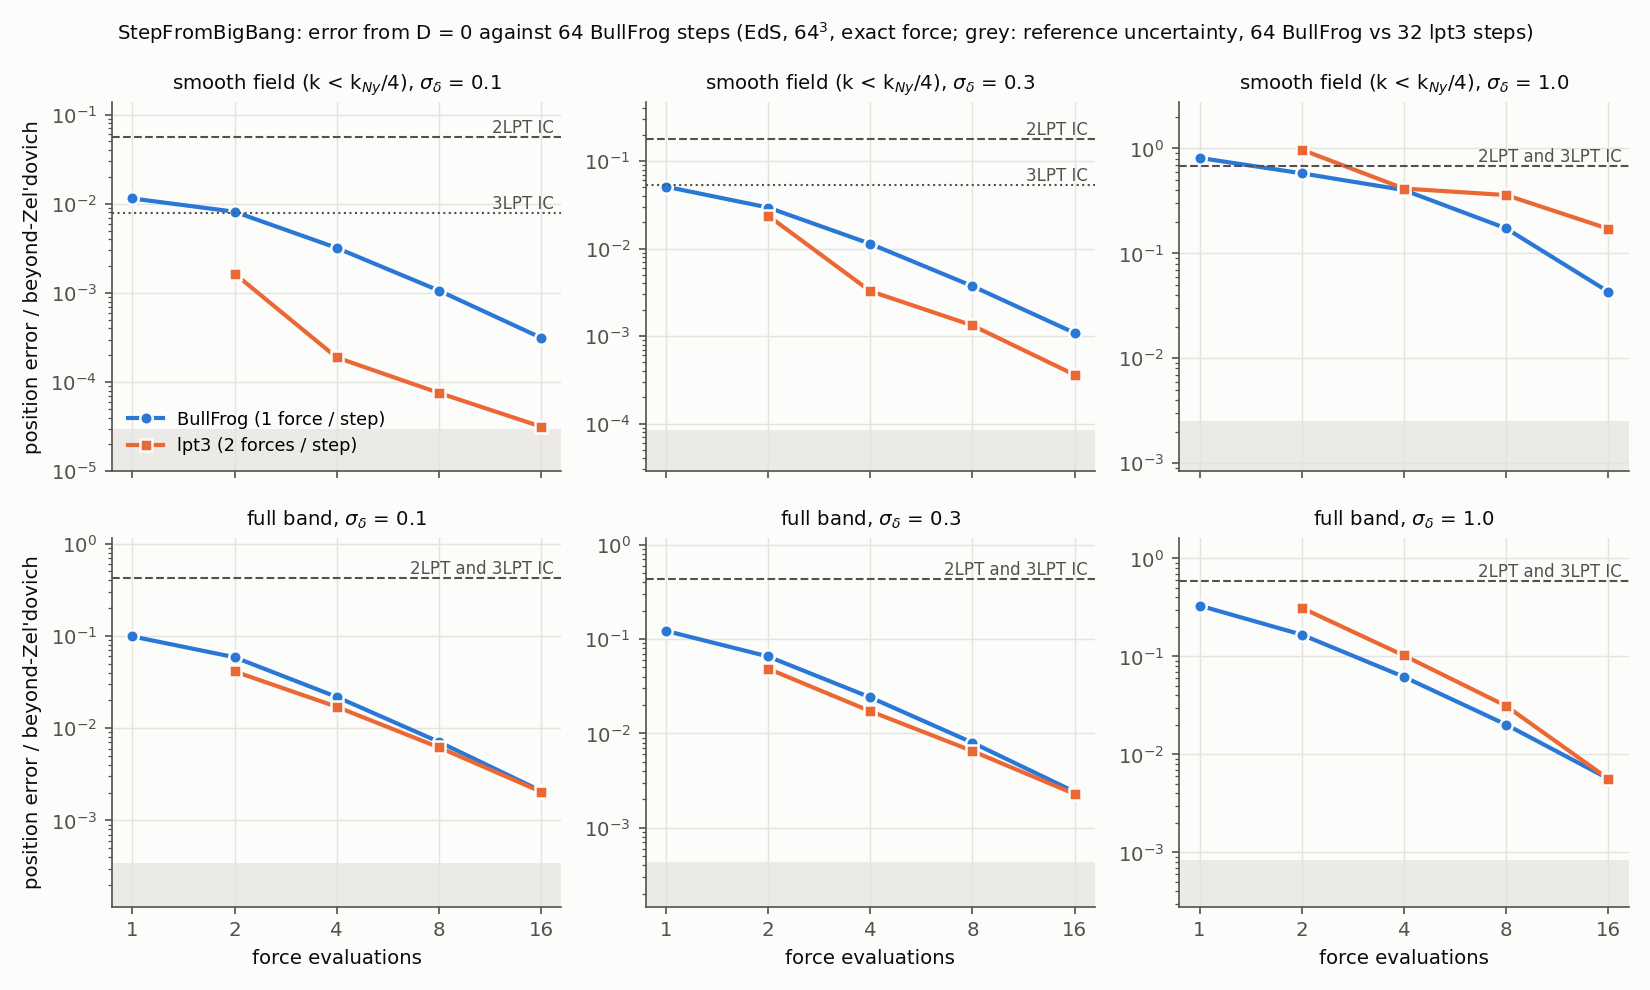
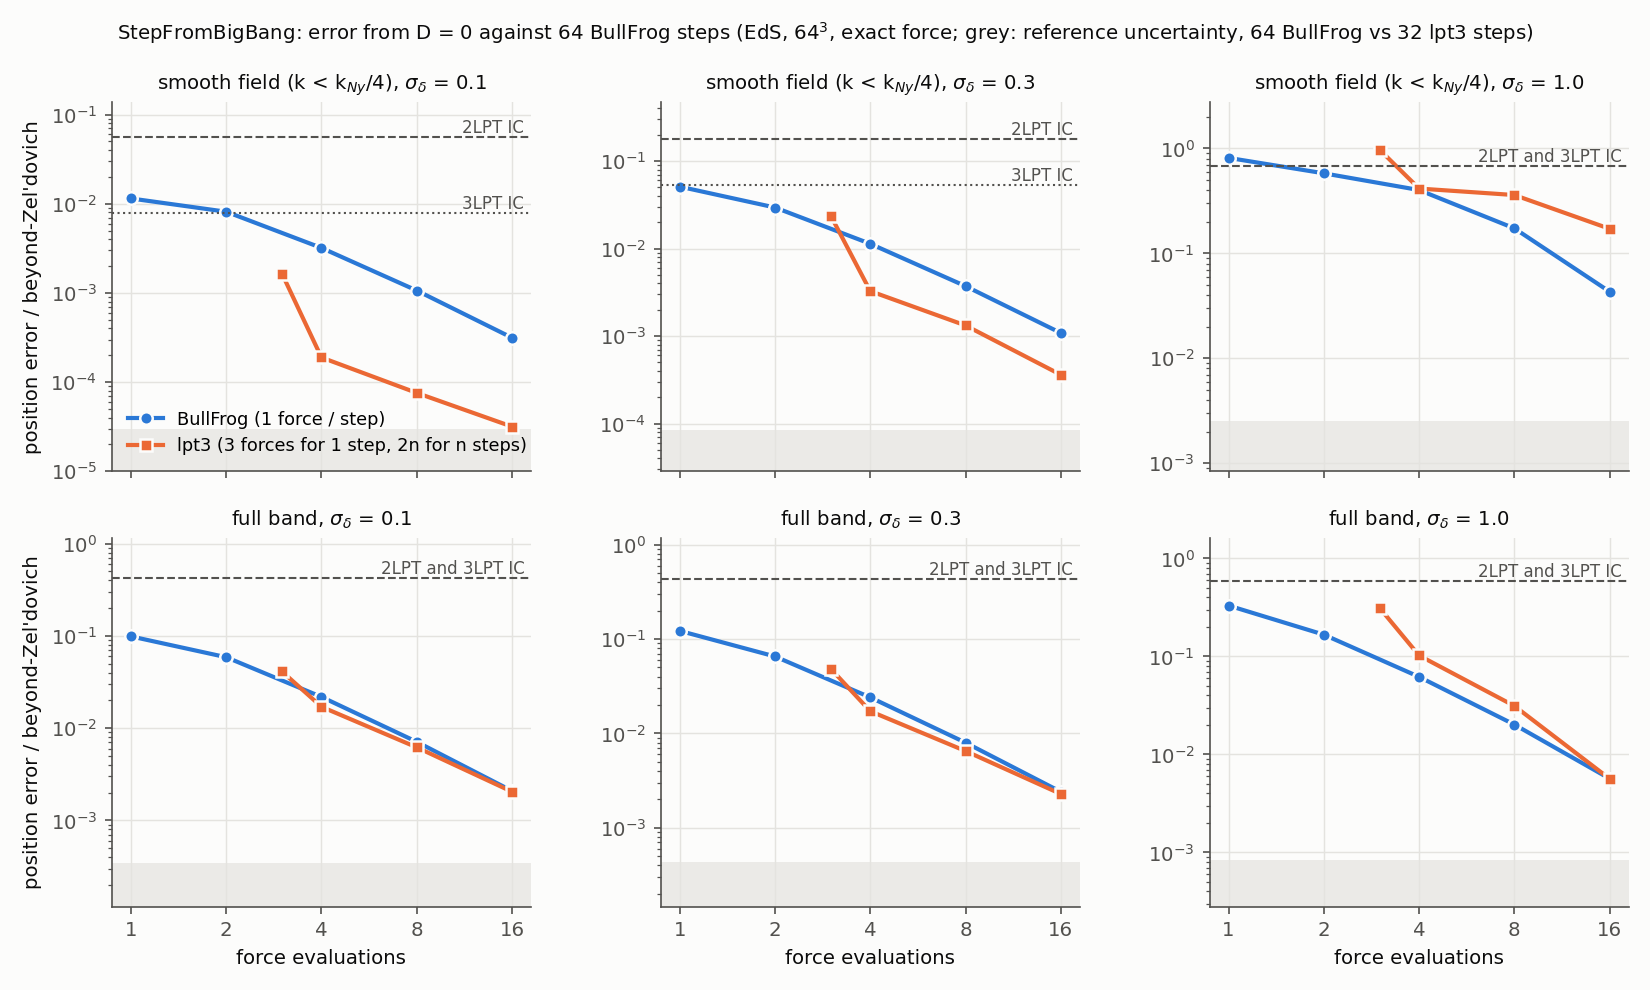
StepFromBigBang: steps from the Big Bang against nLPT ICs; cost mode; lpt3 force count
- Docs (book, website, module README, CHANGELOG): one step from a = 0 against
  2LPT/3LPT initial conditions at z = 18 (the cosmology and particle spacing of
  List, Hahn & Rampf 2023, exact force, converged N-body reference). One
  BullFrog step beats 2LPT and 3LPT over the full band (0.13 against 0.34 /
  0.32 of the beyond-Zel'dovich displacement); one lpt3 step beats 3LPT by 3x
  on large scales and 5-7x over the full band. Why, and where the residual to
  3LPT is a fair measure.
- Corrected: one lpt3 step takes 3 forces (the first step needs a force at its
  end for the velocity), n > 1 steps 2n. Fixed in the docs and the convergence
  figure (one-step lpt3 point at 3 forces).
- test_sfbb: PK_LCDM="L,z" in dump mode for an Eisenstein-Hu LCDM field; a
  cost mode timing nLPT ICs against 1-2 steps with each force; a NUFFT force
  with eps = 1e-6 among the force variants.

Claude-Session: https://claude.ai/code/session_01EWQvBFXvnZwz6cQpbACP5y

diff --git a/FML/StepFromBigBang/tests/test_sfbb.cpp b/FML/StepFromBigBang/tests/test_sfbb.cpp
@@ -14,7 +14,9 @@
 #include <FML/RandomGenerator/RandomGenerator.h>
 #include <FML/StepFromBigBang/Forces.h>
 #include <FML/StepFromBigBang/StepFromBigBang.h>
+#include <FML/Cosmology/Spectra/EisensteinHu.h>
 
+#include <chrono>
 #include <cmath>
 #include <iomanip>
 #include <iostream>
@@ -69,6 +71,51 @@ FML::GRID::FFTWGrid<NDIM> make_delta(double kcut, double sigma, int seed = 1) {
     FML::GRID::for_each_fourier_mode<NDIM>(delta, [&](size_t i, double) {
         delta.set_fourier_from_index(i, delta.get_fourier_from_index(i) * FML::GRID::FloatType(norm));
     });
+    return delta;
+}
+
+// A realistic linear delta: Eisenstein-Hu LCDM (Omega_m = 0.3, h = 0.6711, n_s = 0.9624, sigma8 = 0.8, as List, Hahn
+// & Rampf 2023) in a box of L Mpc/h at redshift z, no cutoff. Growth D(z)/D(0) of LCDM without radiation.
+FML::GRID::FFTWGrid<NDIM> make_delta_lcdm(double L, double z, int seed = 1) {
+    FML::COSMOLOGY::EisensteinHuParameters eh;
+    eh.Omega_m = 0.3;
+    eh.h = 0.6711;
+    const double ns = 0.9624, sigma8 = 0.8, Om = 0.3;
+    auto Pshape = [&](double k) { return std::pow(k, ns) * std::pow(FML::COSMOLOGY::eisenstein_hu_transfer(k, eh), 2); };
+    // sigma8 of the shape (top hat R = 8 Mpc/h), log-k trapezoid
+    double s2 = 0;
+    const int nk = 20000;
+    const double lk0 = std::log(1e-5), lk1 = std::log(1e3), dlk = (lk1 - lk0) / nk;
+    for (int i = 0; i <= nk; i++) {
+        const double k = std::exp(lk0 + i * dlk), x = 8 * k;
+        const double W = 3 * (std::sin(x) - x * std::cos(x)) / (x * x * x);
+        s2 += (i == 0 or i == nk ? 0.5 : 1.0) * Pshape(k) * W * W * k * k * k / (2 * M_PI * M_PI) * dlk;
+    }
+    // LCDM growth D(a) ~ H(a) int_0^a da' / (a' H)^3
+    auto Dgrowth = [&](double a) {
+        auto H = [&](double x) { return std::sqrt(Om / (x * x * x) + 1 - Om); };
+        double I = 0;
+        const int n = 20000;
+        for (int i = 1; i <= n; i++) {
+            const double x = a * (i - 0.5) / n;
+            I += 1 / std::pow(x * H(x), 3) * a / n;
+        }
+        return 2.5 * Om * H(a) * I;
+    };
+    const double D = Dgrowth(1 / (1 + z)) / Dgrowth(1.0);
+    const double A = sigma8 * sigma8 / s2 * D * D;
+    std::cout << "LCDM delta: L = " << L << " Mpc/h, z = " << z << ", D(z)/D(0) = " << D << "\n";
+    FML::GRID::FFTWGrid<NDIM> delta(NP, 1, 1);
+    FML::RANDOM::RandomGenerator rng;
+    rng.set_seed(seed);
+    FML::RANDOM::GAUSSIAN::generate_gaussian_random_field_fourier<NDIM>(
+        delta, &rng, [&](double kB) { return kB > 0 ? A * Pshape(kB / L) / (L * L * L) : 0.0; }, false);
+    auto tmp = delta;
+    tmp.fftw_c2r();
+    double v = 0;
+    for (auto && ri : tmp.get_real_range())
+        v += std::pow(tmp.get_real_from_index(ri), 2);
+    std::cout << "  rms of the linear delta on the lattice: " << std::sqrt(v / std::pow(NP, NDIM)) << "\n";
     return delta;
 }
 
@@ -164,6 +211,65 @@ int main(int argc, char ** argv) {
     if (const char * e = std::getenv("NUFFT_EPS"))
         NUFFT_EPS = std::stod(e);
 
+    if (mode == "cost") {
+        // Wall time of nLPT initial conditions against 1 and 2 steps from the Big Bang with several forces
+        // (EdS, the Eisenstein-Hu LCDM field at z = 18 in a box with the spacing 0.195 Mpc/h). test_sfbb cost N
+        auto delta = make_delta_lcdm(0.1953125 * NP, 18.0);
+        auto g = growth_EdS();
+        auto kappa0 = [](double a) { return 1.5 * std::sqrt(a); };
+        Settings s;
+        s.a_start = 1e-7;
+        s.a_end = 1.0;
+        s.verbose = false;
+        auto timeit = [](auto && f) {
+            auto t0 = std::chrono::steady_clock::now();
+            f();
+            return std::chrono::duration<double>(std::chrono::steady_clock::now() - t0).count();
+        };
+        std::vector<std::pair<std::string, double>> res;
+        // the particle creation alone (the lattice, ids, q; Zel'dovich) for reference
+        for (int order : {1, 2, 3}) {
+            Particles part;
+            std::vector<FML::GRID::FFTWGrid<NDIM>> phi;
+            FML::NBODY::LPTInitialConditionsOptions opt;
+            opt.dealiasing = FML::COSMOLOGY::LPT::Dealiasing::Padding;
+            res.push_back({std::to_string(order) + "LPT (dealiased)", timeit([&] {
+                               FML::NBODY::NBodyInitialConditions<NDIM, Part>(
+                                   part, NP, 1.5, delta, phi, order, 1.0, 0.0, std::vector<double>{1.0, 2.0, 3.0, 3.0},
+                                   nullptr, nullptr, nullptr, nullptr, nullptr, opt);
+                           })});
+        }
+        std::vector<std::pair<std::string, SFBB::ForceFunction>> forces{
+            {"exact NUFFT", make_force_nufft<NDIM, Part>(NP, kappa0)},
+            {"NUFFT eps 1e-6", make_force_nufft<NDIM, Part>(NP, kappa0, nullptr, 1e-6)},
+            {"sheet PCS 1x", make_force_sheet<NDIM, Part>(NP, NP, kappa0, nullptr, 2, "PCS", "PCS", true)},
+            {"PM PCS 1x dc", make_force_pm<NDIM, Part>(NP, kappa0, nullptr, "PCS", false, true)},
+            {"PM CIC 1x", make_force_pm<NDIM, Part>(NP, kappa0, nullptr, "CIC", false, false)}};
+        for (auto & [fname, f] : forces) {
+            for (auto [scheme, n] : std::vector<std::pair<std::string, int>>{{"bullfrog", 1}, {"bullfrog", 2},
+                                                                            {"lpt3", 1}, {"lpt3", 2}}) {
+                auto ss = s;
+                ss.scheme = scheme;
+                ss.nsteps = n;
+                Particles part;
+                res.push_back({scheme + " x" + std::to_string(n) + ", " + fname, timeit([&] {
+                                   generate_particles_from_big_bang<NDIM, Part>(part, NP, 1.5, delta, 1.0, g, f, ss);
+                               })});
+            }
+            // one force evaluation alone
+            auto ss = s;
+            ss.a_start = 0.5;
+            SFBB sfbb(g, f, ss);
+            Particles part;
+            sfbb.make_start_particles(part, NP, 1.5, delta, 1.0);
+            res.push_back({"  one force, " + fname, timeit([&] { f(part, 0.5, nullptr, {{Target::Scratch, 1.0}}); })});
+        }
+        std::cout << "\nCOST N = " << NP << "\n";
+        for (auto & [n, t] : res)
+            std::cout << "COST " << std::left << std::setw(32) << n << std::right << std::fixed << std::setprecision(3)
+                      << t << " s\n";
+        return 0;
+    }
     if (mode == "dump") {
         // Data for the accuracy figure. test_sfbb dump N kcut sigma outdir job...  (EdS, D = 1 at the end)
         //   ref: 64 BullFrog and 32 lpt3 steps; ic: Zel'dovich, 2LPT, 3LPT (dealiased, no curl); bf: 1..16 BullFrog;
@@ -174,7 +280,15 @@ int main(int argc, char ** argv) {
         const std::string out = argv[5];
         auto g = growth_EdS();
         auto kappa0 = [](double a) { return 1.5 * std::sqrt(a); };
-        auto delta = make_delta(kcut, sigma);
+        // PK_LCDM="L,z": the Eisenstein-Hu LCDM field instead (kcut and sigma ignored)
+        auto delta = [&]() {
+            if (const char * e = std::getenv("PK_LCDM")) {
+                const std::string str(e);
+                const auto c = str.find(',');
+                return make_delta_lcdm(std::stod(str.substr(0, c)), std::stod(str.substr(c + 1)));
+            }
+            return make_delta(kcut, sigma);
+        }();
         Settings s;
         s.a_start = 1e-7;
         s.a_end = 1.0;
@@ -203,6 +317,7 @@ int main(int argc, char ** argv) {
         };
         auto exact = make_force_nufft<NDIM, Part>(NP, kappa0);
         std::vector<std::pair<std::string, SFBB::ForceFunction>> variants{
+            {"nufft_1e-6", make_force_nufft<NDIM, Part>(NP, kappa0, nullptr, 1e-6)},
             {"sheet_nufft", make_force_sheet<NDIM, Part>(NP, NP, kappa0, nullptr, 2, "NUFFT", "NUFFT")},
             {"sheet_PCS_1x", make_force_sheet<NDIM, Part>(NP, NP, kappa0, nullptr, 2, "PCS", "PCS", true)},
             {"sheet_PCS_2x", make_force_sheet<NDIM, Part>(2 * NP, NP, kappa0, nullptr, 2, "PCS", "PCS", true)},

diff --git a/Documentation/chapters/21_lpt.tex b/Documentation/chapters/21_lpt.tex
@@ -250,21 +250,22 @@ the positions changes the force only by $\bm e_L$.
       Later steps predict the exact 2LPT configuration from $\bm u_0$ and the previous force,
       $\tilde\vx = \vx_0 + \alpha\bm u_0 + \beta\bm C_0$ ($\alpha = p-\tfrac34p^2$, $\beta=\tfrac34p^2$ in EdS). They take
       one force there, and $\vx_1$, $\bm u_1$ follow from a $3\times3$ system. That is two forces per step (one is reused
-      as the next step's $\bm C_0$) and one extra vector per particle.
+      as the next step's $\bm C_0$) and one extra vector per particle. The first step needs a third force at its end
+      for the velocity, so $n$ steps cost 3 forces for $n=1$ and $2n$ for $n>1$.
 \item \code{hybrid}: scale-dependent FastPM steps (the kick has a factor per $k$ so each mode follows its own
       $D(k,a)$; the start velocity is the effective velocity of the first drift, so no force is taken at the lattice),
       then BullFrog at a reference $k$. For massive neutrinos and $G_{\rm eff}(k,a)$.
 \end{itemize}
 
 \paragraph*{Accuracy.} The tests use $64^3$ particles, the exact NUFFT force, a smooth field with $\sigma=0.3$, and the
-error in the beyond-Zel'dovich displacement against 64 BullFrog steps:
+error in the beyond-Zel'dovich displacement against 64 BullFrog steps (one \code{lpt3} step takes 3 forces):
 \begin{center}
 \begin{tabular}{lcccc}
 \toprule
 forces & 2 & 4 & 8 & 16\\
 \midrule
 \code{bullfrog} & $2.9\times10^{-2}$ & $1.1\times10^{-2}$ & $3.7\times10^{-3}$ & $1.1\times10^{-3}$\\
-\code{lpt3} & $2.4\times10^{-2}$ & $3.3\times10^{-3}$ & $1.3\times10^{-3}$ & $3.6\times10^{-4}$\\
+\code{lpt3} & $2.4\times10^{-2}$\,(3) & $3.3\times10^{-3}$ & $1.3\times10^{-3}$ & $3.6\times10^{-4}$\\
 \bottomrule
 \end{tabular}
 \end{center}
@@ -278,6 +279,37 @@ fields from the linear to the shell-crossing regime, and \cref{fig:lpt-sfbb-orde
 error of one BullFrog step falls as $\sigma_\delta$, that of one \code{lpt3} step as $\sigma_\delta^2$. On the full
 band a single BullFrog step is already more accurate than 2LPT or 3LPT initial conditions at the same redshift,
 because it follows the growing mode of the particle system near the particle Nyquist frequency.
+
+\paragraph*{Steps from the Big Bang against $n$LPT initial conditions.} List, Hahn \& Rampf \cite{ListBigBang2024}
+found that a single LPT-informed step from $a=0$ to $z=18$ is more accurate than 2LPT at $z=18$. We repeated the
+test with their cosmology ($\Omega_m=0.3$, $h=0.6711$, $n_s=0.9624$, $\sigma_8=0.8$, Eisenstein--Hu spectrum, no
+cutoff) and particle spacing ($0.195\Mpch$: $64^3$ particles in $12.5\Mpch$), the exact force, and a converged
+N-body reference (64 BullFrog steps, which agree with 32 \code{lpt3} steps to $6\times10^{-4}$). The errors in units
+of the beyond-Zel'dovich displacement are
+\begin{center}
+\begin{tabular}{lcccc}
+\toprule
+scales & 2LPT IC & 3LPT IC & 1 BullFrog step & 1 \code{lpt3} step (3 forces)\\
+\midrule
+all & 0.34 & 0.32 & 0.13 & 0.059\\
+$k<k_{\rm Ny}$ & 0.23 & 0.19 & 0.069 & 0.028\\
+$k<k_{\rm Ny}/2$ & 0.14 & 0.036 & 0.035 & 0.012\\
+\bottomrule
+\end{tabular}
+\end{center}
+(relative to the whole displacement: 1.1\% for 2LPT, 0.43\% for one BullFrog step). The claim holds: one BullFrog
+step beats 2LPT on every scale and equals 3LPT on large scales, and one \code{lpt3} step beats 3LPT by a factor
+3 on large scales and 5--7 over the full band. The gain has two sources. A step that is exact to order $n$ evaluates
+the force at configurations that contain higher orders, so it also carries part of the order-$(n+1)$ displacement.
+And it follows the particle system, which near the particle Nyquist frequency is not continuous LPT: $n$LPT
+initial conditions carry this discreteness error at every order, which is why 3LPT barely improves on 2LPT over the
+full band. For the same reason the residual \emph{to 3LPT} is a meaningful measure only well below $k_{\rm Ny}$
+(there one BullFrog step is 0.042 from 3LPT and 2LPT 0.134); over the full band the step is further from 3LPT than
+2LPT is, while closer to the true particle solution. The same ordering holds in the EdS tests
+(\cref{fig:lpt-sfbb-convergence}; smooth field, $\sigma_\delta = 0.1$: 3LPT 0.008, one \code{lpt3} step 0.0016) until
+shell crossing, after which \code{lpt3} is worse than both. With one or two \code{lpt3} steps the initial conditions
+are therefore more accurate than 3LPT at a cost of three or four force evaluations; one BullFrog step is the cheaper
+option and already beats 2LPT and 3LPT over the full band.
 
 \begin{figure}[t]
 \centering

diff --git a/Documentation/website/lpt_content.php b/Documentation/website/lpt_content.php
@@ -348,6 +348,17 @@ Three schemes:
 <p>
 With $64^3$ particles and the exact force, at 4 force evaluations the error in the beyond-Zel'dovich displacement is $3.3\times10^{-3}$ for <tt>lpt3</tt> against $1.1\times10^{-2}$ for BullFrog (smooth field, $\sigma = 0.3$). That holds in EdS and in $\Lambda$CDM with radiation from $z = 10^6$. On the full band a single BullFrog step is already more accurate than 2LPT or 3LPT initial conditions at the same redshift, because it follows the growing mode of the particle system near the particle Nyquist frequency.
 </p>
+<p>
+<b>Steps from the Big Bang against $n$LPT initial conditions.</b> List, Hahn &amp; Rampf found that one step from $a = 0$ to $z = 18$ is more accurate than 2LPT at $z = 18$. With their cosmology ($\Omega_m = 0.3$, $\sigma_8 = 0.8$, Eisenstein-Hu spectrum) and particle spacing ($0.195$ Mpc/$h$), the exact force and a converged N-body reference, the errors in units of the beyond-Zel'dovich displacement are:
+</p>
+<table class="table table-striped table-condensed">
+<tr><th>scales</th><th>2LPT IC</th><th>3LPT IC</th><th>1 BullFrog step</th><th>1 <tt>lpt3</tt> step (3 forces)</th></tr>
+<tr><td>all</td><td>0.34</td><td>0.32</td><td>0.13</td><td>0.059</td></tr>
+<tr><td>$k &lt; k_{\rm Ny}$</td><td>0.23</td><td>0.19</td><td>0.069</td><td>0.028</td></tr>
+<tr><td>$k &lt; k_{\rm Ny}/2$</td><td>0.14</td><td>0.036</td><td>0.035</td><td>0.012</td></tr>
+</table>
+<p>
+The claim holds, and one <tt>lpt3</tt> step also beats 3LPT (3&times; on large scales, 5-7&times; over the full band). A step exact to order $n$ evaluates the force at configurations containing higher orders, so it carries part of the next order; and it follows the particle system, which near the particle Nyquist frequency is not continuous LPT, an error $n$LPT initial conditions have at every order. The residual <i>to 3LPT</i> is therefore only meaningful well below $k_{\rm Ny}$. After shell crossing <tt>lpt3</tt> is worse than both. One or two <tt>lpt3</tt> steps give initial conditions more accurate than 3LPT for three or four force evaluations; one BullFrog step is the cheaper option and already beats 2LPT and 3LPT over the full band.
 <figure class="science-figure">
   <img src="images/sfbb_convergence.png" loading="lazy" decoding="async" alt="Six panels of position error against the number of force evaluations for BullFrog and lpt3, for smooth and full-band fields with sigma 0.1, 0.3 and 1; both converge, lpt3 faster on smooth fields before shell crossing, and both beat 2LPT and 3LPT initial conditions">
   <figcaption>Position error in units of the beyond-Zel'dovich displacement against the number of force evaluations, from $D = 0$ ($64^3$ particles, EdS, exact force). Top: a smooth field ($k &lt; k_{\rm Ny}/4$); bottom: the full band. The reference is 64 BullFrog steps (grey: its uncertainty); horizontal lines are 2LPT and 3LPT initial conditions.</figcaption>

diff --git a/FML/StepFromBigBang/tests/plot_sfbb.py b/FML/StepFromBigBang/tests/plot_sfbb.py
@@ -51,8 +51,8 @@ for ax, (kc_, s) in zip(axs.ravel(), cases):
     summary[case] = dict(bullfrog=eb, lpt3=el, ic_2lpt=e2, ic_3lpt=e3, ref_floor=floor)
     ax.axhspan(1e-9, floor, color=GRID, alpha=0.7, lw=0)
     ax.plot(BF, eb, '-o', color=C['blue'], lw=2, ms=6, mec=SURF, mew=1.2, label='BullFrog (1 force / step)')
-    ax.plot([2 * n for n in L3], el, '-s', color=C['orange'], lw=2, ms=6, mec=SURF, mew=1.2,
-            label='lpt3 (2 forces / step)')
+    ax.plot([3 if n == 1 else 2 * n for n in L3], el, '-s', color=C['orange'], lw=2, ms=6, mec=SURF, mew=1.2,
+            label='lpt3 (3 forces for 1 step, 2n for n steps)')
     if abs(np.log10(e2 / e3)) < 0.12:   # the two IC lines nearly coincide: one label
         ax.axhline(e2, color=INK2, lw=1, ls='--')
         ax.text(17.5, max(e2, e3), '2LPT and 3LPT IC', color=INK2, fontsize=8, va='bottom', ha='right')
@@ -81,7 +81,7 @@ fig, axs = plt.subplots(3, 2, figsize=(11, 11.4))
 ax = axs[0, 0]
 for (name, lab, col, mk, ls) in [('lpt2', '2LPT IC', C['magenta'], 'v', '--'), ('lpt3', '3LPT IC', C['green'], '^', ':'),
                                  ('bf1', 'BullFrog, 1 step', C['blue'], 'o', '-'), ('bf2', 'BullFrog, 2 steps', C['aqua'], 'D', '-'),
-                                 ('l3_1', 'lpt3, 1 step (2 forces)', C['orange'], 's', '-'),
+                                 ('l3_1', 'lpt3, 1 step (3 forces)', C['orange'], 's', '-'),
                                  ('l3_2', 'lpt3, 2 steps (4 forces)', C['yellow'], 'P', '-')]:
     ax.loglog(kc, ek(name), ls=ls, marker=mk, color=col, lw=1.8, ms=5, mec=SURF, mew=1, label=lab)
 ax.set_title('error per k: methods (full band, $\\sigma_\\delta$ = 0.3)', fontsize=9.5)

diff --git a/FML/CHANGELOG.md b/FML/CHANGELOG.md
@@ -51,7 +51,8 @@ The entries below are relative to upstream commit `f9f666a` (April 2026).
   Schemes:
   - `bullfrog`: 2LPT-exact, one force per step.
   - `lpt3` (new): 3LPT-exact including the transverse term in the first step (forces at s1 = 7/54 D1 and
-    s2 = 7/18 D1 in EdS, a 4x4 root solve in general), two forces per step.
+    s2 = 7/18 D1 in EdS, a 4x4 root solve in general), two forces per step; the first step needs a third at its end for the
+    velocity (3 forces for one step, 2n for n > 1).
   - `hybrid`: scale-dependent FastPM steps, then BullFrog at a reference k.
 - The third-order force splits as F3[Psi1^3] = 6 Psi3a + 21/5 Psi3b + 7 Psi3c and 2 F2[Psi1, Psi2] = 9/5 Psi3b
   (measured with the exact particle force; it is the split implied by the D3b equation of `LPTGrowthFactors`). This
@@ -66,6 +67,10 @@ The entries below are relative to upstream commit `f9f666a` (April 2026).
   by fractions of a cell (`generate_interlacing_shifts`, as SimulationCode's `force_interlacing_order`). Sheet with
   PCS on a 2x grid goes from 5.2e-4 to 2.1e-4 (one step 0.0512). Plain PM barely changes: its near-lattice error is
   the lattice's discreteness, not aliasing.
+- Steps from the Big Bang against nLPT initial conditions (LCDM, z = 18, the particle spacing of List, Hahn & Rampf
+  2023): one BullFrog step beats 2LPT and 3LPT over the full band (0.13 against 0.34 / 0.32 of the beyond-Zel'dovich
+  displacement), one `lpt3` step beats 3LPT by 3x on large scales and 5-7x over the full band. `test_sfbb dump` takes
+  `PK_LCDM="L,z"` for an Eisenstein-Hu LCDM field. In the book, the README and on the website.
 - Fixed: `make_force_pm` with `deconvolve` divided out only the assignment window, not the interpolation window.
   PCS on a 1x grid is now within 1.3e-3 of the exact force (4.4e-4 with `interlacing_order = 2`; one step 0.0517
   against 0.0509 exact), as good as the sheet. On a grid finer than the particles the deconvolution amplifies the

diff --git a/FML/StepFromBigBang/README.md b/FML/StepFromBigBang/README.md
@@ -62,6 +62,23 @@ auto force = [&](MPIParticles<P> & part, double a, const std::function<double(do
 **Step by step.** `StepFromBigBang<NDIM, P> sfbb(growth, force, settings)`, then
 `sfbb.make_start_particles(part, Npart_1D, buffer, delta_fourier, a_ref, lattice_shift)`, then `sfbb.run(part)`.
 
+**Against nLPT initial conditions.** One step from the Big Bang beats nLPT generated at the target redshift (List,
+Hahn & Rampf 2023 found this for one step to z = 18 against 2LPT). Their cosmology (Eisenstein-Hu, sigma8 = 0.8)
+and particle spacing (0.195 Mpc/h; 64³ in 12.5 Mpc/h), the exact force, z = 18, against a converged N-body reference;
+errors in units of the beyond-Zel'dovich displacement:
+
+| Scales | 2LPT IC | 3LPT IC | 1 BullFrog step | 1 `lpt3` step (3 forces) |
+|---|---|---|---|---|
+| all | 0.34 | 0.32 | 0.13 | 0.059 |
+| k < k_Ny | 0.23 | 0.19 | 0.069 | 0.028 |
+| k < k_Ny/2 | 0.14 | 0.036 | 0.035 | 0.012 |
+
+A step exact to order n carries part of order n+1 (its forces are taken at configurations with higher orders), and
+it follows the particle system, which near the particle Nyquist frequency is not continuous LPT. nLPT initial
+conditions have that discreteness error at every order, so 3LPT barely improves on 2LPT over the full band, and the
+residual to 3LPT is a fair measure only well below k_Ny. After shell crossing `lpt3` is worse than both. Reproduce
+with `PK_LCDM=12.5,18 ./test_sfbb dump 64 1 1 <dir> ic bf l3 ref`.
+
 **Which force.** The ready-made forces, compared in a Zel'dovich configuration at half the final growth (smooth
 field, 64³):
 
